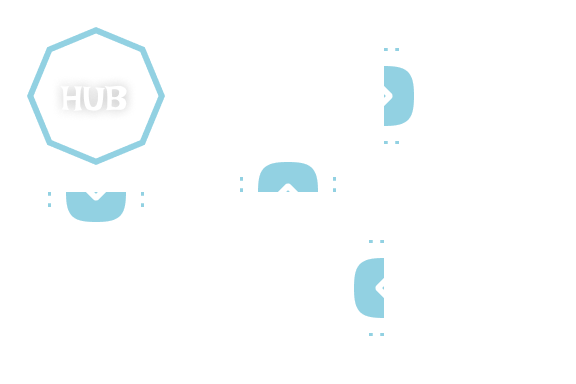
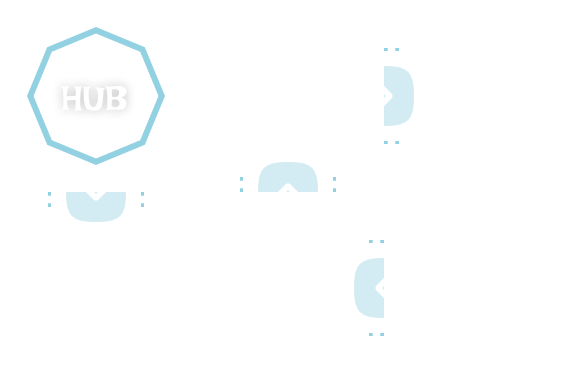
Updated machine sprites. Adjusted level 6 and 7 designs

diff --git a/src/main/java/game/levels/Level7.java b/src/main/java/game/levels/Level7.java
@@ -17,22 +17,21 @@ public class Level7 extends FactoryController {
         Belt.INFO,
         Mixer.INFO,
         Reshaper.INFO,
-        HueShifter.INFO
+        HueShifter.INFO,
+        Splitter.INFO
       },
       new Source[]{
-        Source.create(0, 0, Color.BLACK),
-        Source.create(0, 1, Color.WHITE),
-        Source.create(0, 6, Color.BLACK),
-        Source.create(0, 7, Color.BLACK),
-        Source.create(8, 2, Color.RED),
+        Source.create(0, 0, Color.WHITE),
+        Source.create(0, 10, Color.BLACK),
+        Source.create(10, 10, Color.RED),
       },
-      new FactoryGoal(30, Shape.Type.SQUARE, Color.YELLOW),
+      new FactoryGoal(30, Shape.Type.SQUARE, Color.CYAN),
       () -> { } /*Application.getInstance().loadScene(new Level7())*/
     );
   }
 
   @Override
   protected int getGridSize() {
-    return 11;
+    return 9;
   }
 }

diff --git a/src/main/java/game/levels/Level6.java b/src/main/java/game/levels/Level6.java
@@ -18,13 +18,12 @@ public class Level6 extends FactoryController {
         Belt.INFO,
         Mixer.INFO,
         Reshaper.INFO,
-        HueShifter.INFO
+        HueShifter.INFO,
+        Splitter.INFO
       },
       new Source[]{
-        Source.create(0, 0, Color.BLACK),
-        Source.create(0, 1, Color.WHITE),
-        Source.create(0, 6, Color.BLACK),
-        Source.create(0, 7, Color.BLACK),
+        Source.create(0, 0, Color.WHITE),
+        Source.create(0, 8, Color.BLACK),
         Source.create(8, 2, Color.RED),
       },
       new FactoryGoal(30, Shape.Type.SQUARE, Color.YELLOW),

diff --git a/src/main/java/game/levels/Menu.java b/src/main/java/game/levels/Menu.java
@@ -123,7 +123,7 @@ public final class Menu extends Scene {
   }
 
   private void startCampaignMode() {
-    Application.getInstance().loadScene(new Level5());
+    Application.getInstance().loadScene(new Level7());
   }
 
   private void exitApplication() {
